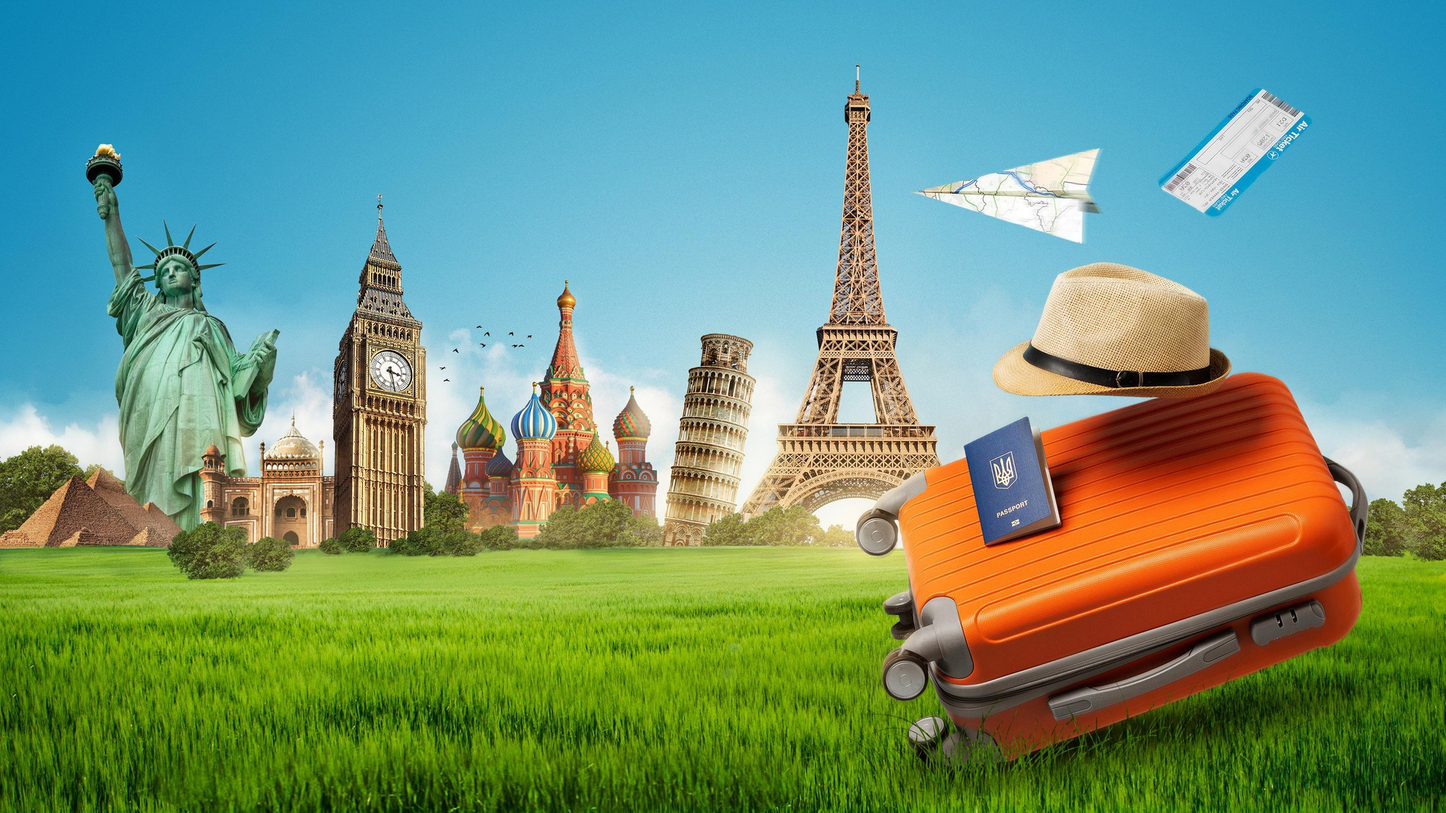
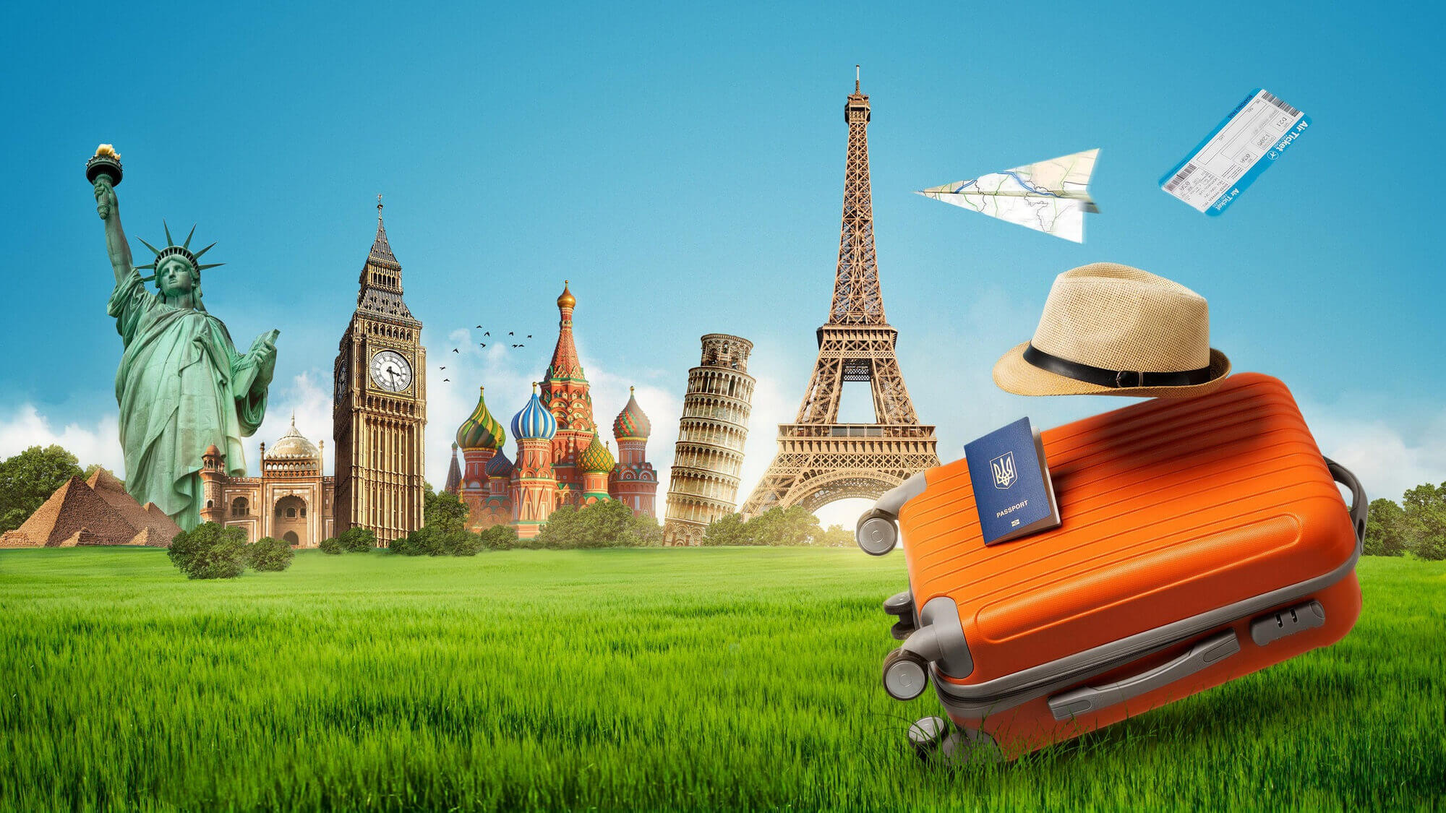
Reduzindo tamanho da imagem

Changed region(s): [[0.248, 0.3111, 0.279, 0.5289], [0.558, 0.3733, 0.62, 0.4667]]

diff --git a/src/components/Countries/SelectCountries.jsx b/src/components/Countries/SelectCountries.jsx
@@ -32,7 +32,7 @@ function SelectCountries({ uf, setUf }) {
       options={countriesOptions}
       isMulti={true}
       components={animatedComponents}
-      closeMenuOnSelect={false}
+      closeMenuOnSelect={true}
       placeholder="Selecione um país"
       onChange={handleSelectedCountry}
       value={uf}

diff --git a/src/index.css b/src/index.css
@@ -4,6 +4,6 @@ body {
   box-shadow: border-box;
   font-family: 'Montserrat', sans-serif;
   background-image: url('./assets/images/travel.jpg');
-  background-size: cover;
+  background-size: 100vw 100vh;
   background-repeat: no-repeat;
 }
